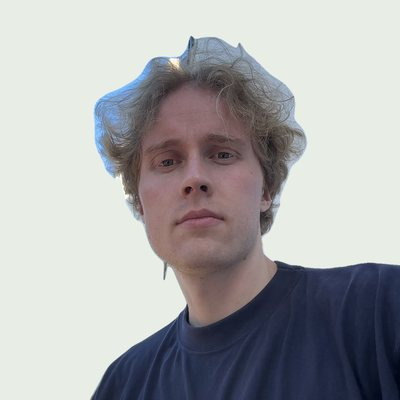
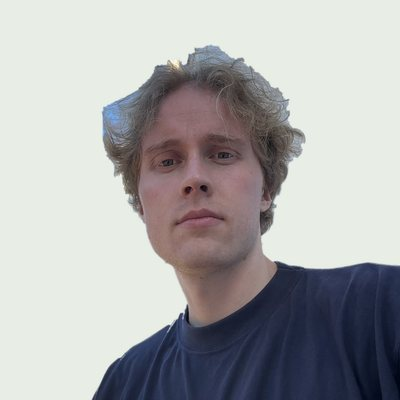
Clean up David's portrait; shorter publications intro; Community and bio edits

diff --git a/selected.html b/selected.html
@@ -7,7 +7,7 @@ description: Selected publications from the laboratory for Mental Health Mapping
 
 <p>A selection of recent and influential work, each with a brief summary of its contribution. The complete list is on <a href="https://scholar.google.com/citations?hl=en&user=4f2rdMcAAAAJ&view_op=list_works&sortby=pubdate">Google Scholar</a>.</p>
 
-<p>Our work is interdisciplinary, so we publish in machine learning conferences (e.g., AAAI, MICCAI), psychiatry and medical journals (e.g., JAMA Psychiatry, npj Digital Medicine), general-science and neuroscience journals (e.g., Nature Neuroscience, eLife), and philosophy journals (e.g., Synthese).</p>
+<p>We publish across disciplines: machine learning (AAAI, MICCAI), psychiatry and medicine (JAMA Psychiatry, npj Digital Medicine), neuroscience (Nature Neuroscience, eLife), and philosophy (Synthese).</p>
 
 {% assign years = site.data.publications | group_by: "year" %}
 {% for year in years %}

diff --git a/community.md b/community.md
@@ -17,7 +17,7 @@ Talks, courses, workshops, and conferences are central to a thriving scientific 
 - **Workshop on Machine Learning in Clinical Neuroimaging** ([MLCN](https://mlcnworkshop.github.io)) at MICCAI: co-organizer.
 - **Teaching:** the [Computational Psychiatry Course at ETH Zurich](https://www.translationalneuromodeling.org/cpcourse/), [Machine Learning for Neuroimaging at Stanford University](https://web.stanford.edu/class/psyc221/), and LMU's computational psychiatry course.
 - **[Computational Psychiatry Conference](https://www.cpconf.org) 2025:** local organizing committee.
-- **[ECNP 2026 in Munich](https://www.ecnp.eu):** Scientific Program Committee, abstract committee, and helping to establish a research network on machine learning for mental health.
+- **[ECNP 2026 in Munich](https://www.ecnp.eu):** Scientific Program Committee, abstract committee, and research network on machine learning for mental health.
 - **Invited talks** at Biological Psychiatry (USA) and at machine learning conferences.
 
 For questions or requests, get in touch by [email](mailto:dr.thomas.wolfers@gmail.com).
